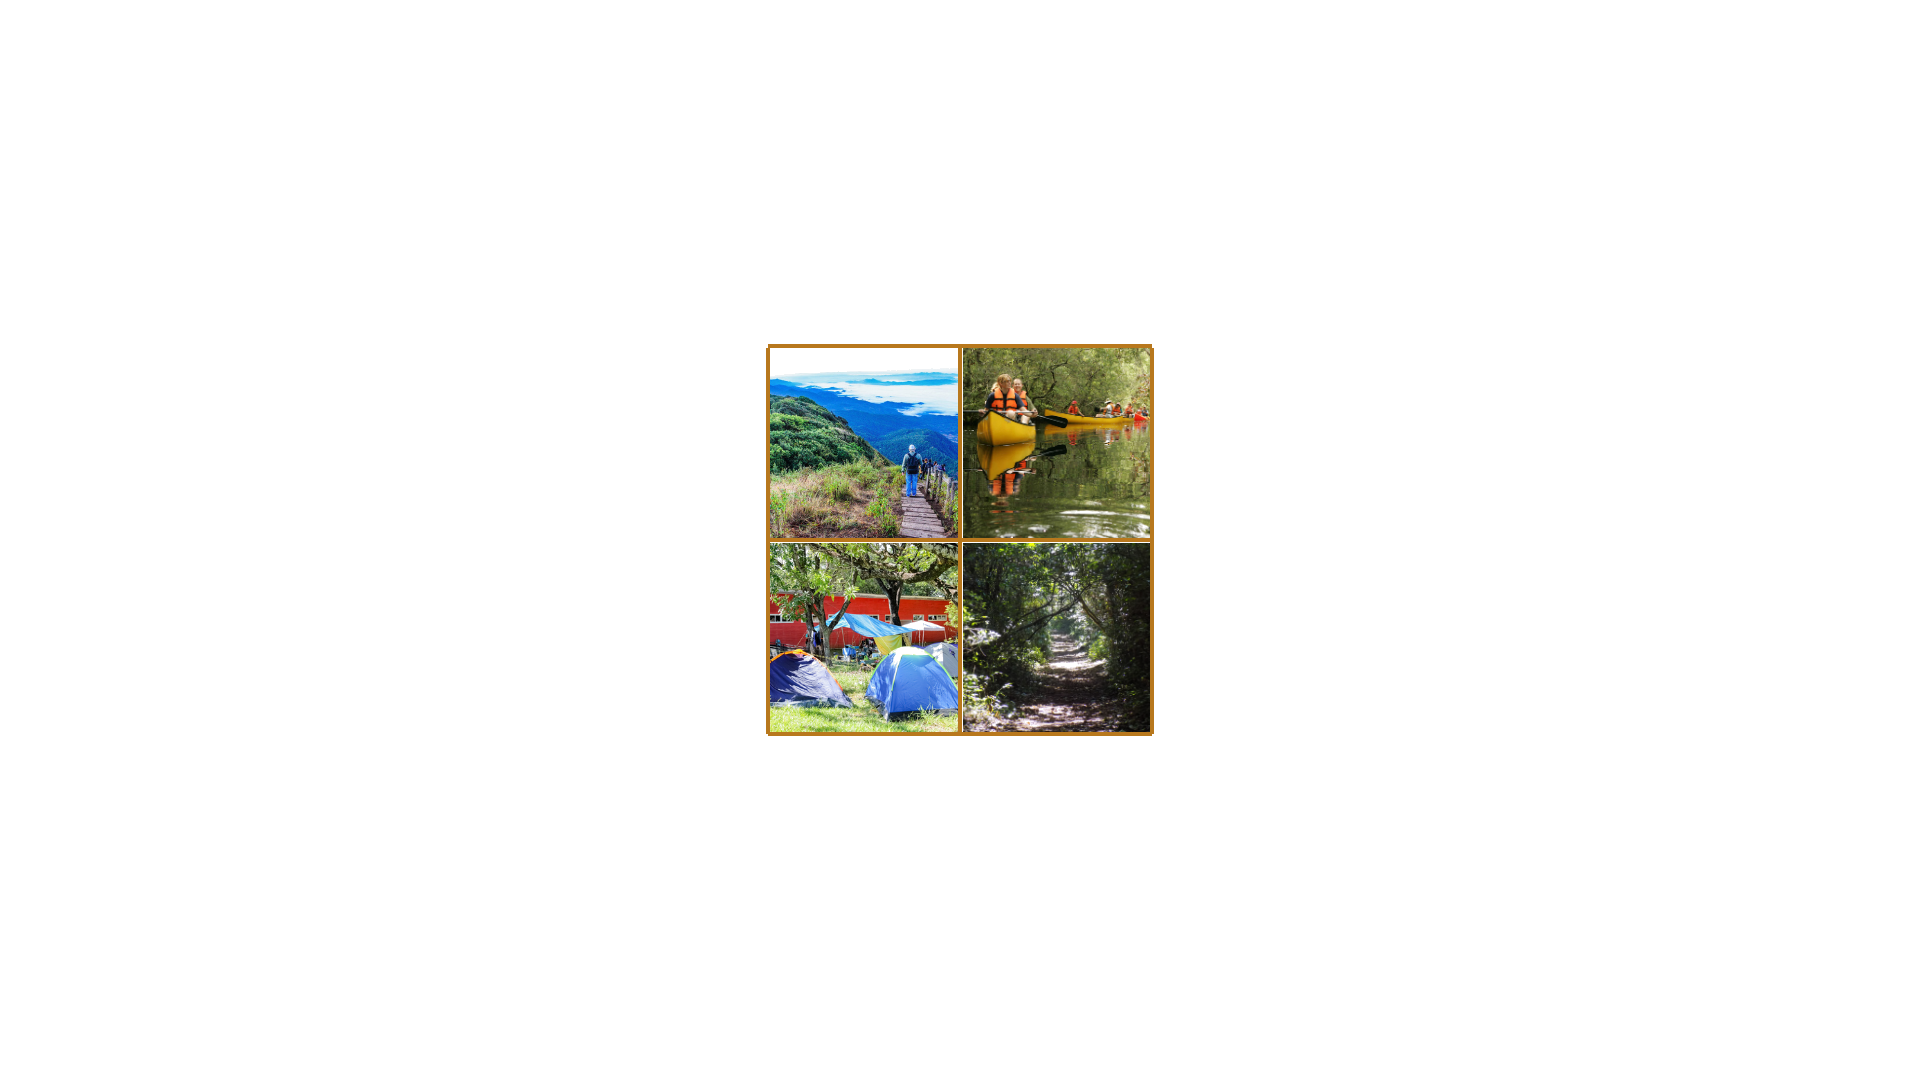
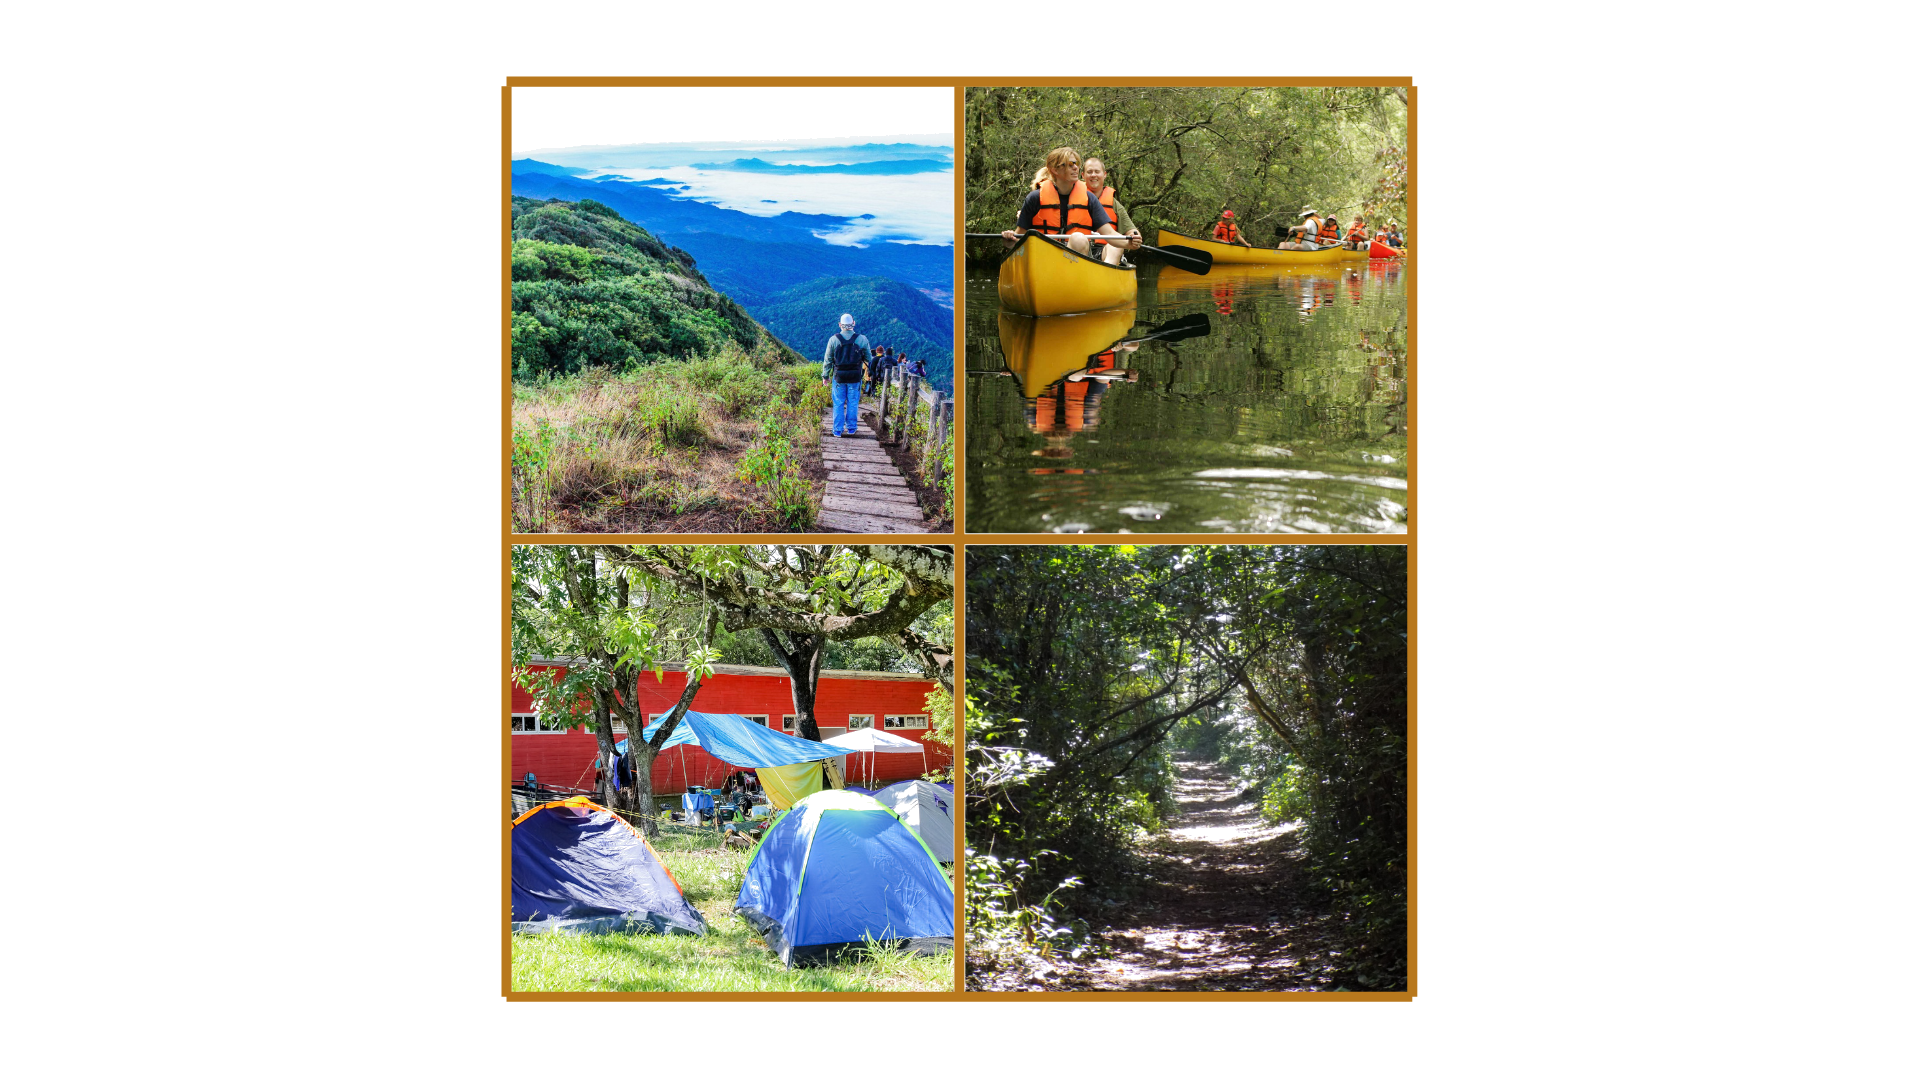
Alteraçao imagem 5

diff --git a/index.html b/index.html
@@ -12,7 +12,7 @@
         </div>;
         <p> 
 <div style="text-align: center; ">
-            <img src="aventuraenatureza.png" alt="Foto de aventuras e natureza" style="width:70%; max-width:1000px;">
+            <img src="aventuraenatureza.png" alt="Foto de aventuras e natureza" style="width: 600;">
 </div>
         </p>
         <div style="text-align: center;">
